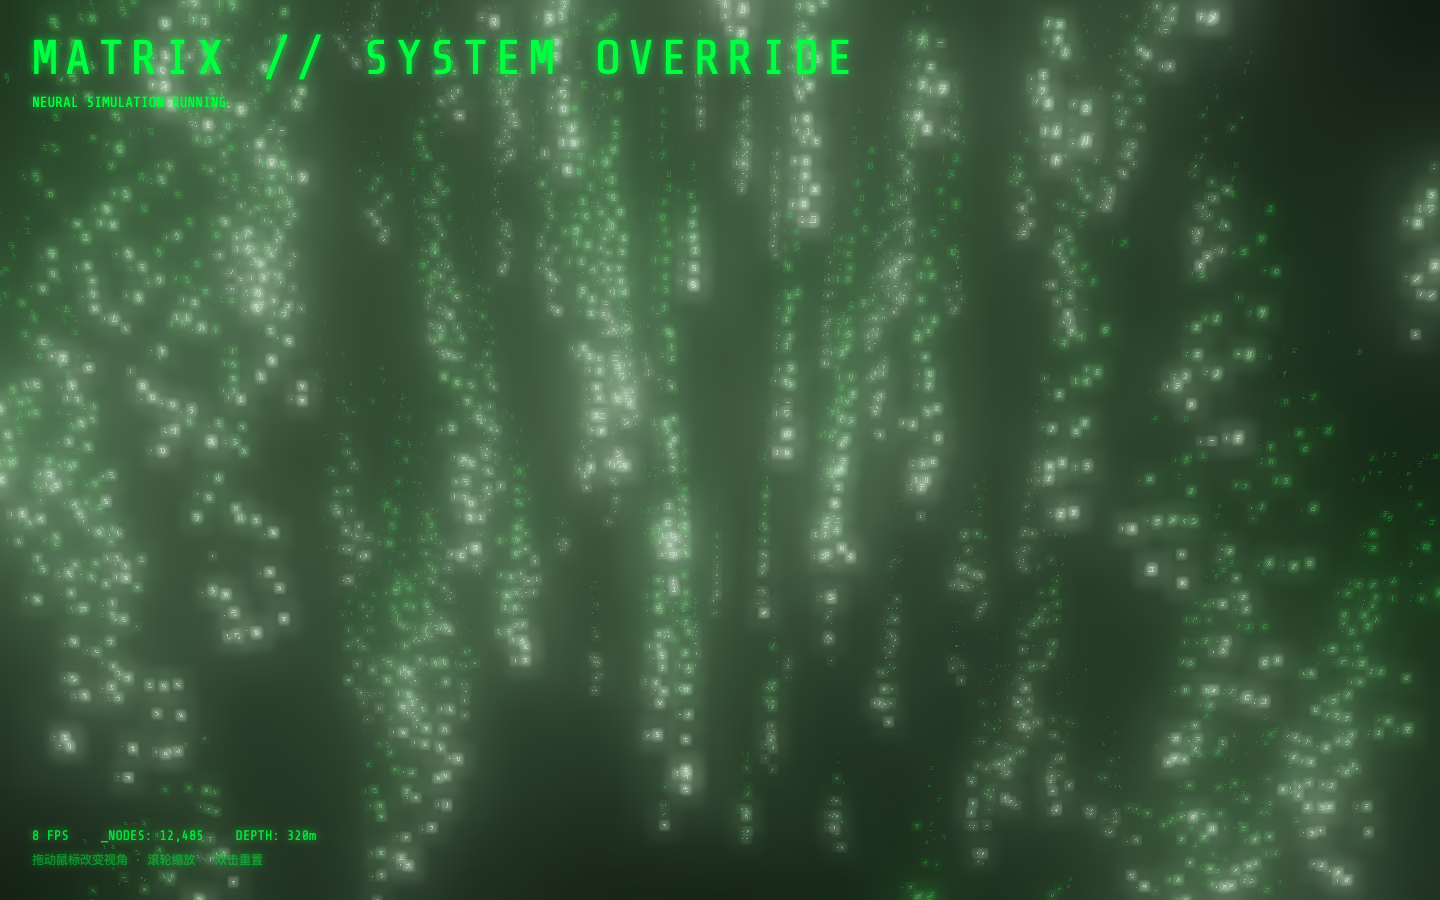
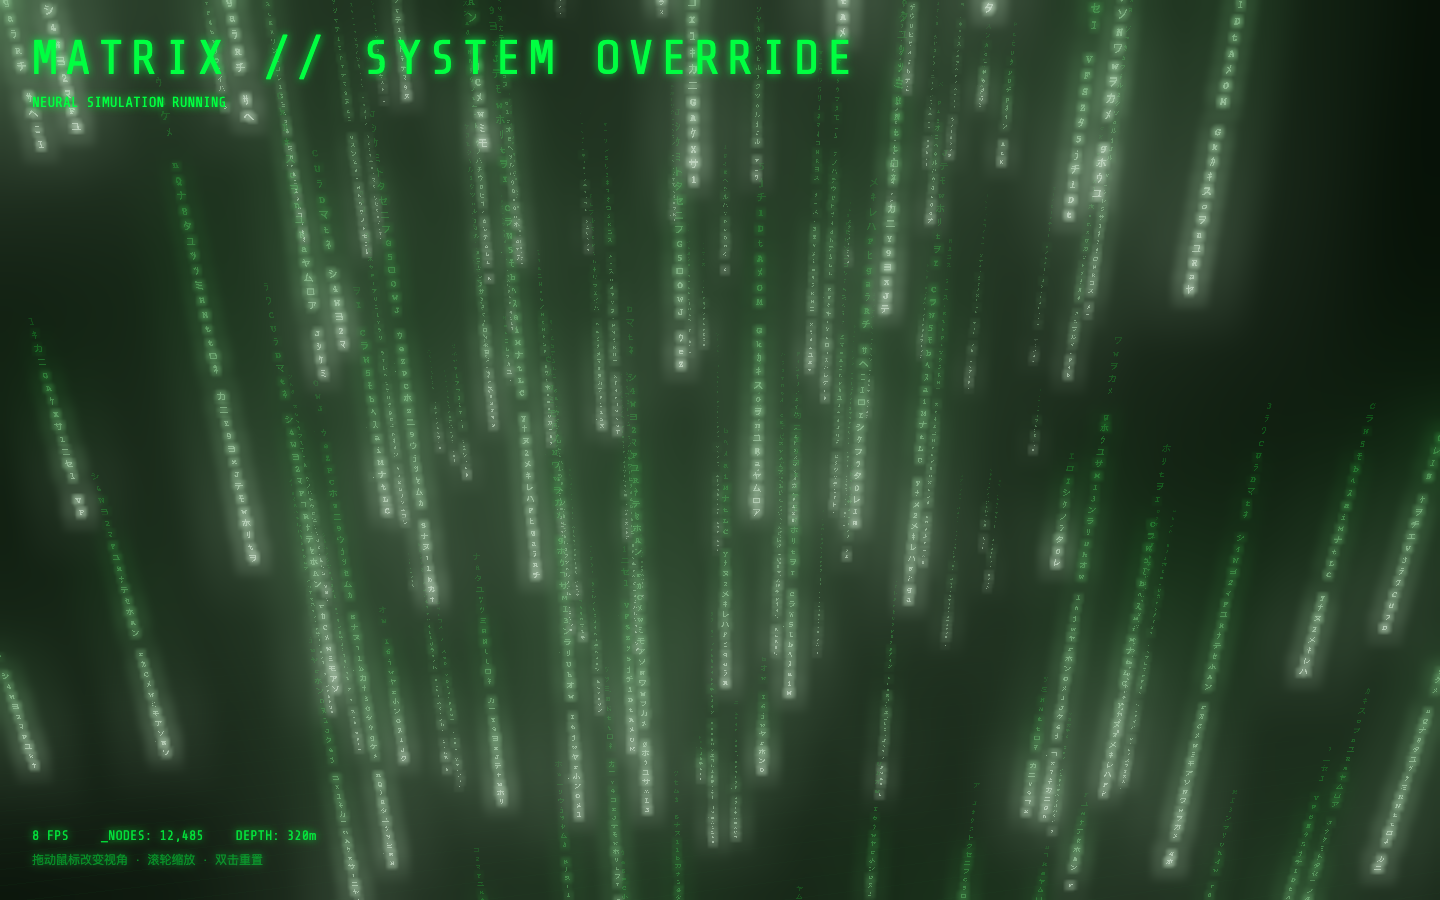
fix: straighten rain columns, reduce jitter and bloom

diff --git a/matrix.js b/matrix.js
@@ -20,8 +20,8 @@ const CONFIG = {
   trailMax: 48,
   atlasChars: 256,
   atlasSize: 16,
-  bloomStrength: 1.6,
-  bloomRadius: 0.7,
+  bloomStrength: 1.25,
+  bloomRadius: 0.55,
   bloomThreshold: 0.04,
   fogColor: 0x000300,
   baseColor: new THREE.Color('#00aa2a'),
@@ -170,7 +170,7 @@ const rainVertexShader = /* glsl */`
     float z = aLayerZ;
 
     vTrailPos = row / max(aTrailLen, 1.0);
-    vCharIndex = mod(uTime * 18.0 + float(gl_InstanceID) * 97.0, 256.0);
+    vCharIndex = mod(uTime * 8.0 + float(gl_InstanceID) * 97.0, 256.0);
 
     vec3 pos = position * uCharSize;
     pos.x += x;
@@ -236,7 +236,8 @@ class MatrixRain {
       const speed = CONFIG.fallSpeedMin + Math.random() * (CONFIG.fallSpeedMax - CONFIG.fallSpeedMin);
       const trailLen = CONFIG.trailMin + Math.floor(Math.random() * (CONFIG.trailMax - CONFIG.trailMin));
       const offset = Math.random() * CONFIG.depth;
-      const columnX = c + Math.random() * 0.4;
+      const columnX = c + 0.25;
+      const columnZ = layerZ + (Math.random() - 0.5) * 4.0;
 
       for (let r = 0; r < this.maxRows; r++) {
         const i = c * this.maxRows + r;
@@ -244,7 +245,7 @@ class MatrixRain {
         aSpeed[i] = speed;
         aTrailLen[i] = trailLen;
         aOffset[i] = offset;
-        aLayerZ[i] = layerZ + (Math.random() - 0.5) * 5.0;
+        aLayerZ[i] = columnZ;
         aBrightness[i] = brightness;
       }
     }